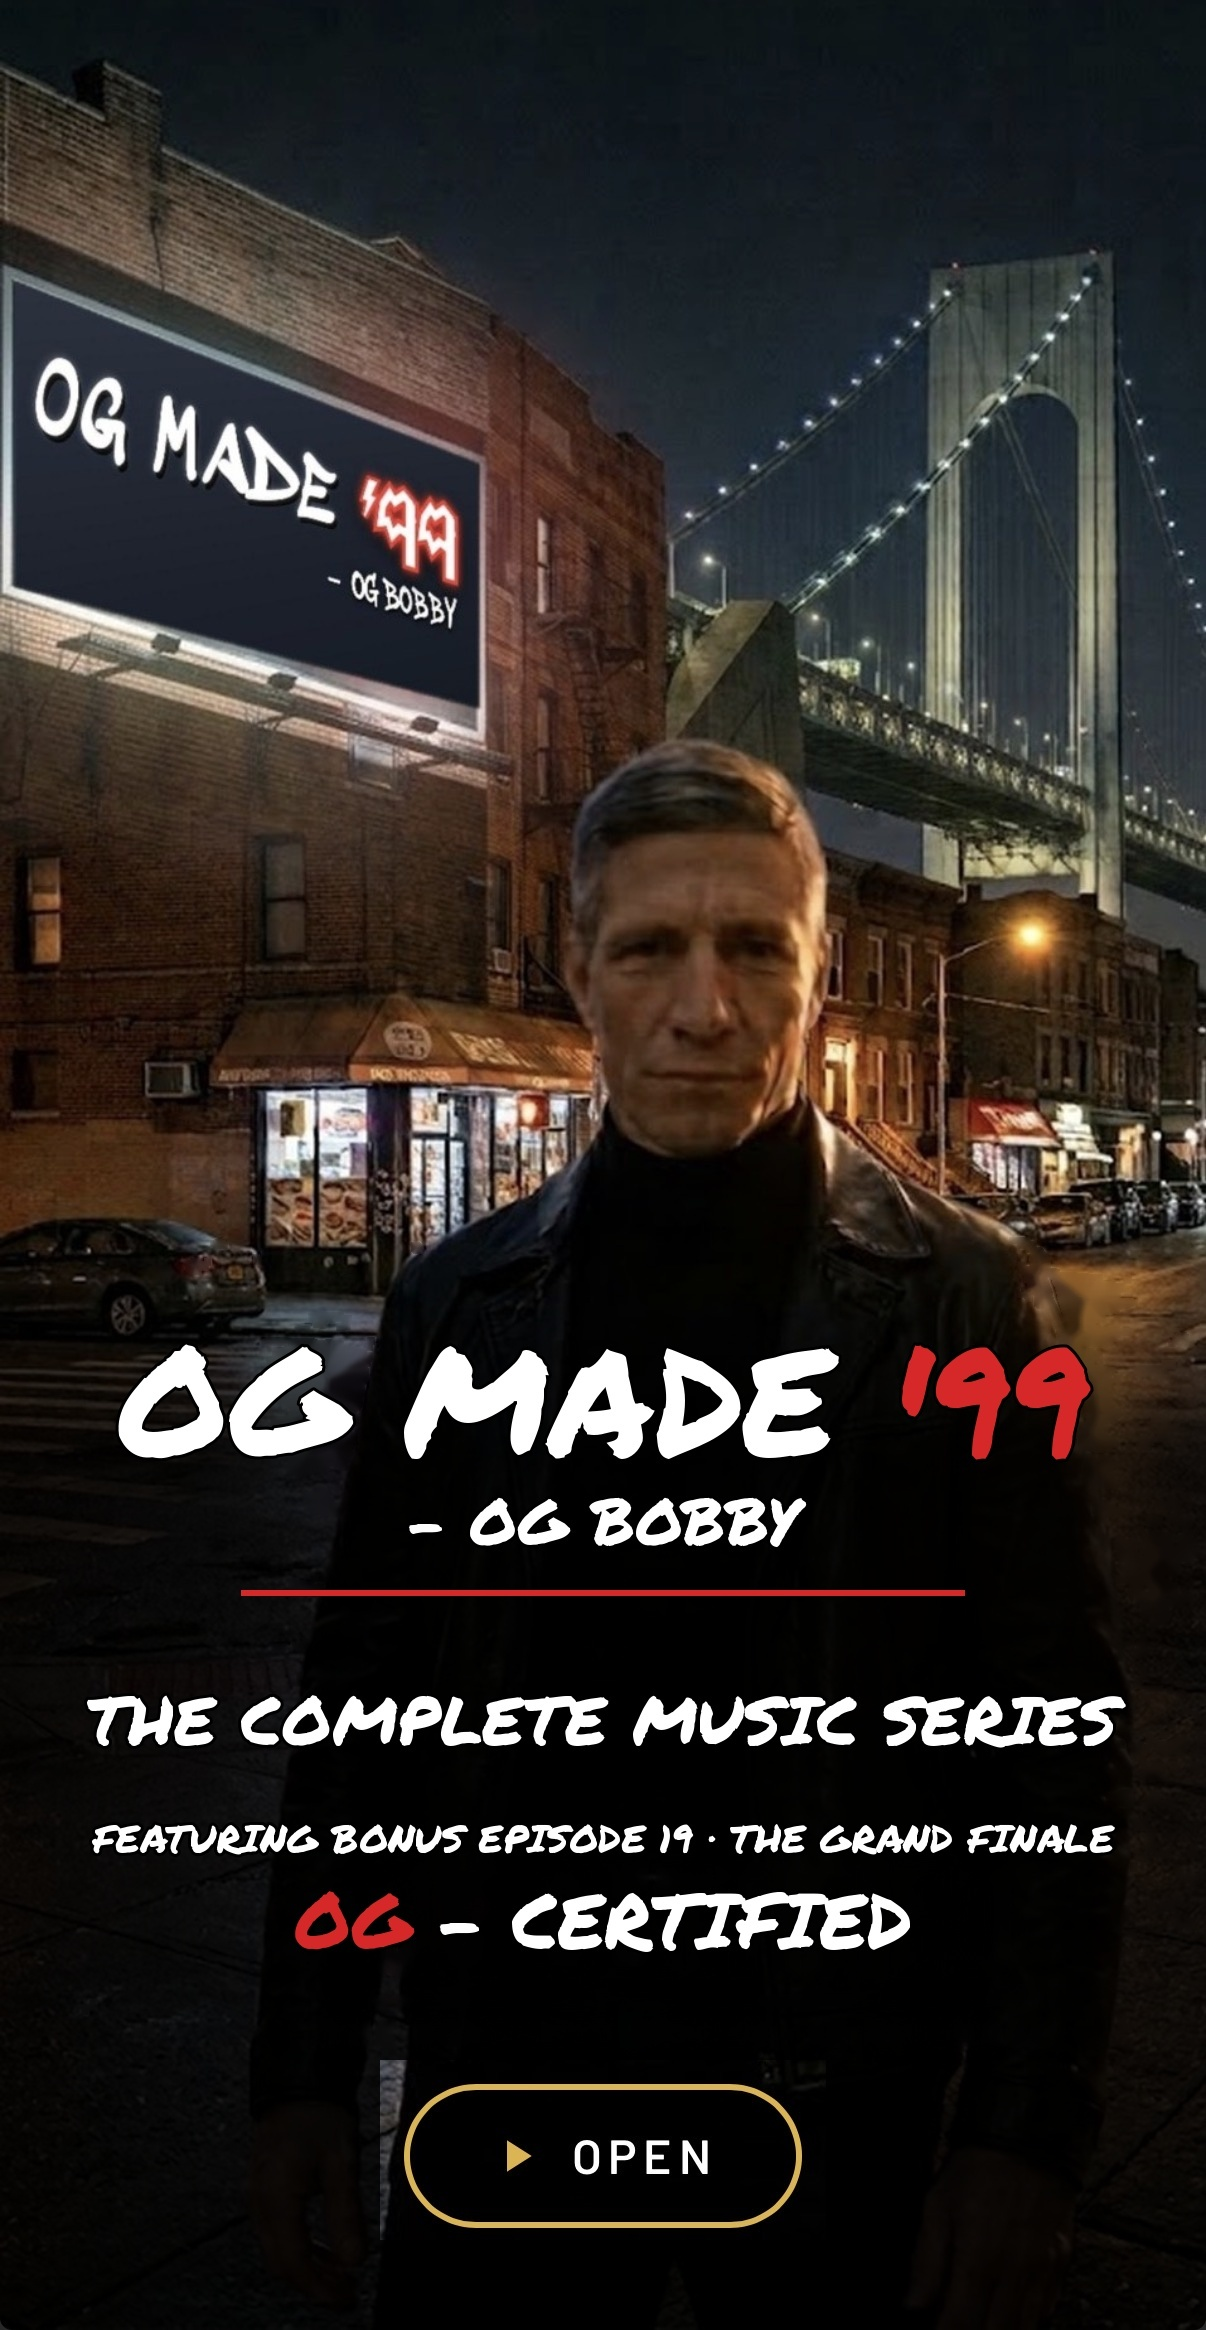
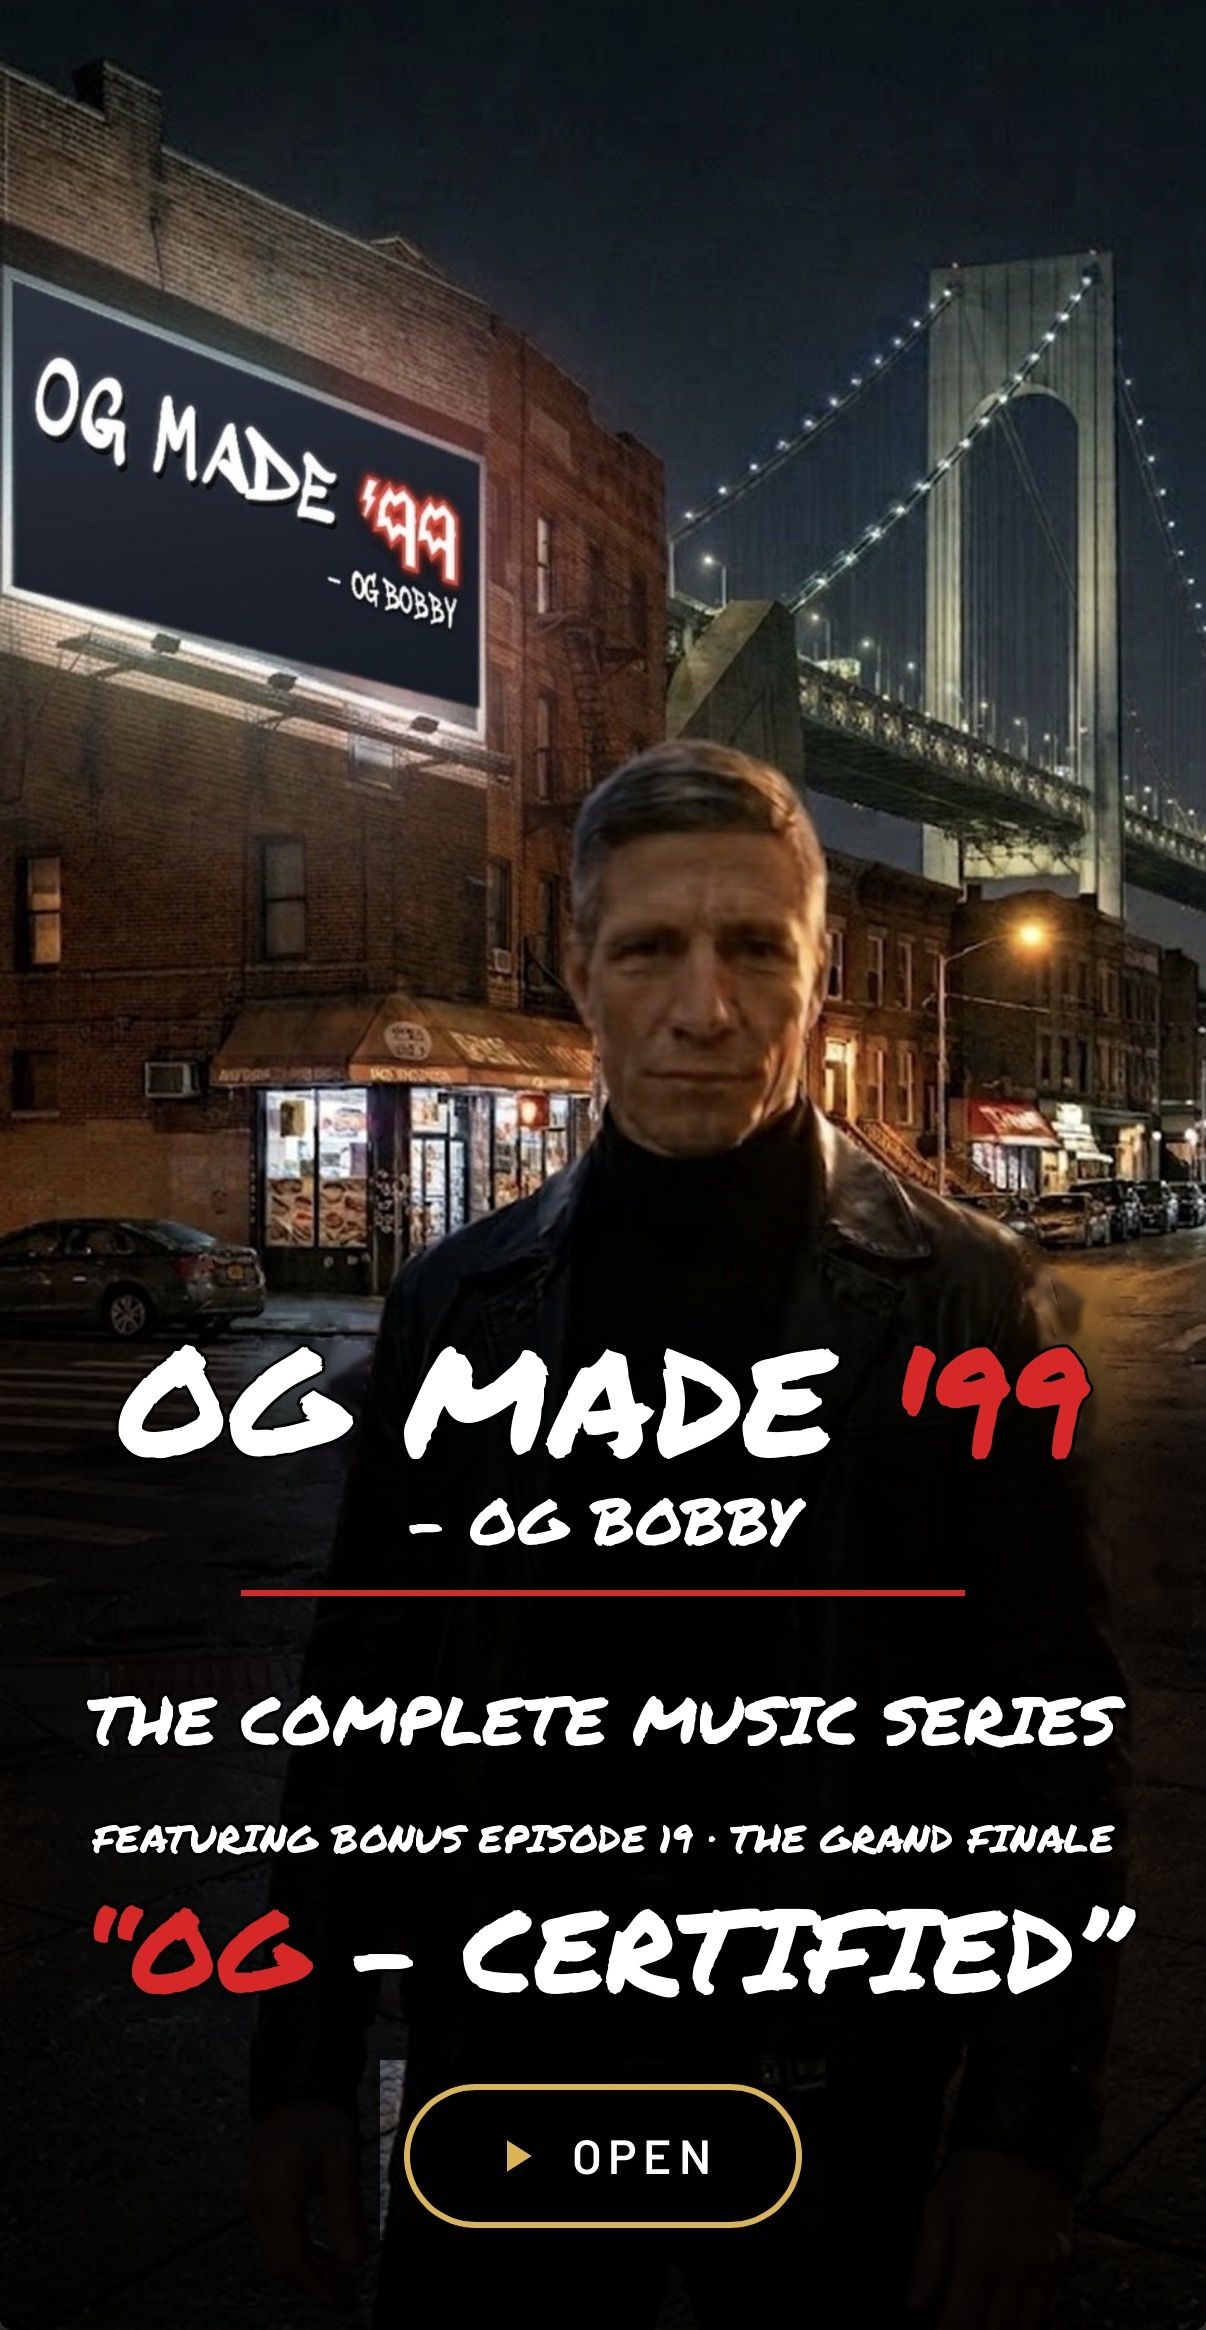
OG Made '99 complete series: OG Certified in quotes, as large as fits
Claude-Session: https://claude.ai/code/session_01HXyZ2FfrDRgHpKxUajcaZB

Changed region(s): [[0.3682, 0.8034, 0.9511, 0.8652], [0.0614, 0.8034, 0.3375, 0.8652]]

diff --git a/og-certified-19-b7e4c1/index.html b/og-certified-19-b7e4c1/index.html
@@ -57,7 +57,7 @@ body { font-family: var(--body); font-size: 16px; -webkit-tap-highlight-color: t
 .cover-txt .open svg { width: 18px; height: 18px; fill: var(--gold); }
 
 /* Songs view */
-#bgArt { position: fixed; inset: 0; z-index: 0; background: #0a0d0b url("art.jpg?v=16") 50% 30% / cover no-repeat; filter: blur(18px) brightness(.35); transform: scale(1.1); }
+#bgArt { position: fixed; inset: 0; z-index: 0; background: #0a0d0b url("art.jpg?v=17") 50% 30% / cover no-repeat; filter: blur(18px) brightness(.35); transform: scale(1.1); }
 .wrap { position: relative; z-index: 1; max-width: 540px; margin: 0 auto; padding: 0 16px 48px; display: grid; gap: 16px; }
 .top { display: flex; align-items: center; justify-content: space-between; gap: 12px; }
 .top .back { flex: none; width: 44px; height: 44px; border-radius: 50%; border: 1px solid var(--line); background: rgba(0,0,0,.5); display: grid; place-items: center; cursor: pointer; }
@@ -140,7 +140,7 @@ footer { color: var(--soft); font-size: .8rem; text-align: center; }
 </head>
 <body>
 <div id="cover" role="button" tabindex="0" aria-label="Open OG MADE ’99">
-  <img class="art" src="art.jpg?v=16" alt="OG Bobby on a Bay Ridge street at night, the Verrazzano Bridge behind him and an OG MADE ’99 billboard on the corner">
+  <img class="art" src="art.jpg?v=17" alt="OG Bobby on a Bay Ridge street at night, the Verrazzano Bridge behind him and an OG MADE ’99 billboard on the corner">
     <div class="cover-txt sky">
     <span class="open"><svg viewBox="0 0 24 24"><path d="M8 5v14l11-7z"/></svg>Open</span>
   </div>
